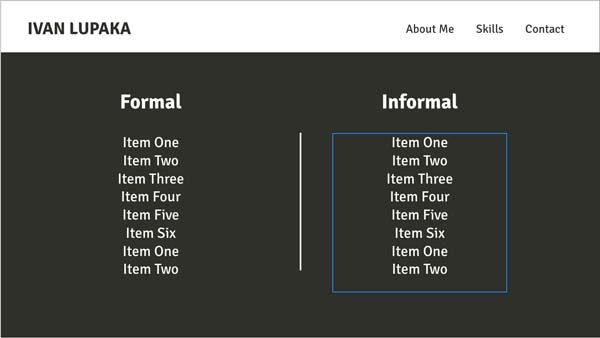
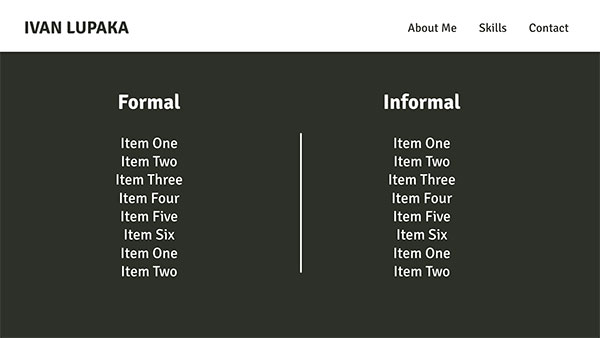
added what seems to be final adjustments to readme and one image that was incorrect

diff --git a/README.md b/README.md
@@ -250,7 +250,7 @@ Q – This would have been a good feature to have but there was an issue which w
 
 ![image of xd wireframe nav section mobile view](assets/images/readme/wire-mob/xd-nav.jpg)
 
-The off-canvas nav was given a dark background and white text and spaced out section links for ease of use. The main page is also pushed to the side and dimmed out. The dimmed visible section of the page works as a back button which closes the nav menu and returns you to the main site view.
+The off-canvas nav was given a dark background and white text and spaced out section links for ease of use. The main page is also pushed to the side and dimmed out. The dimmed visible section of the page works as a back button which closes the nav menu and returns you to the main site view. The functionality for the menu links to have green colored writing when that section was active, could not be figured out for the time being with the mmenu.js plug-in. So this was kept as normal without any usage of active sections/pages.
 
 -----
 
@@ -494,7 +494,7 @@ This test is based on lighthouse, which is tests performance, best practice, SEO
 
 #### Links & Functionality testing
 
-- I went through links on the nav menu, they all worked with the functionality operating as planned. The "my work" link in the hero section also works as intended. The project links are dead links and are only there show indicate functionality, so they serve their purpose. The social media links in the footer also work as intended, opening in new tabs to the correct URL. I also checked the form functionality by clicking submit without entering anything in the input forms. As expected there was a message stating that some input was required.
+- I went through links on the nav menu, they all worked with the functionality operating as planned. The "my work" link in the hero section also works as intended. The project links are dead links and are only there show indicate functionality, so they serve their purpose. The social media links in the footer also work as intended, opening in new tabs to the correct URL. I also checked the form functionality by clicking submit without entering anything in the input forms. As expected there was a message stating that some input was required. The work section contains fake project descriptions and a link to a dummy site as this was created just to illustrate the look of the section and its functionality.
 
 #### Peer testing
 
@@ -559,9 +559,10 @@ Specified code usage includes:
 - Mmenu.js (mburger.js & mhead.js add-ons included) 
 - Cssgradient.io generated color gradient
 
-The following sites were used for beautifying and adding correct vendor prefixes to my code:
+The following sites were used for beautifying, optimizing images and adding correct vendor prefixes to my code:
 - [Autoprefixer CSS](https://autoprefixer.github.io/)
 - [Code Beautify](https://codebeautify.org/)
+- [TinyPNG](https://tinypng.com/)
 
 #### MEDIA
 Photos in this site were gathered from unsplash.com, specifically after a search of code.
